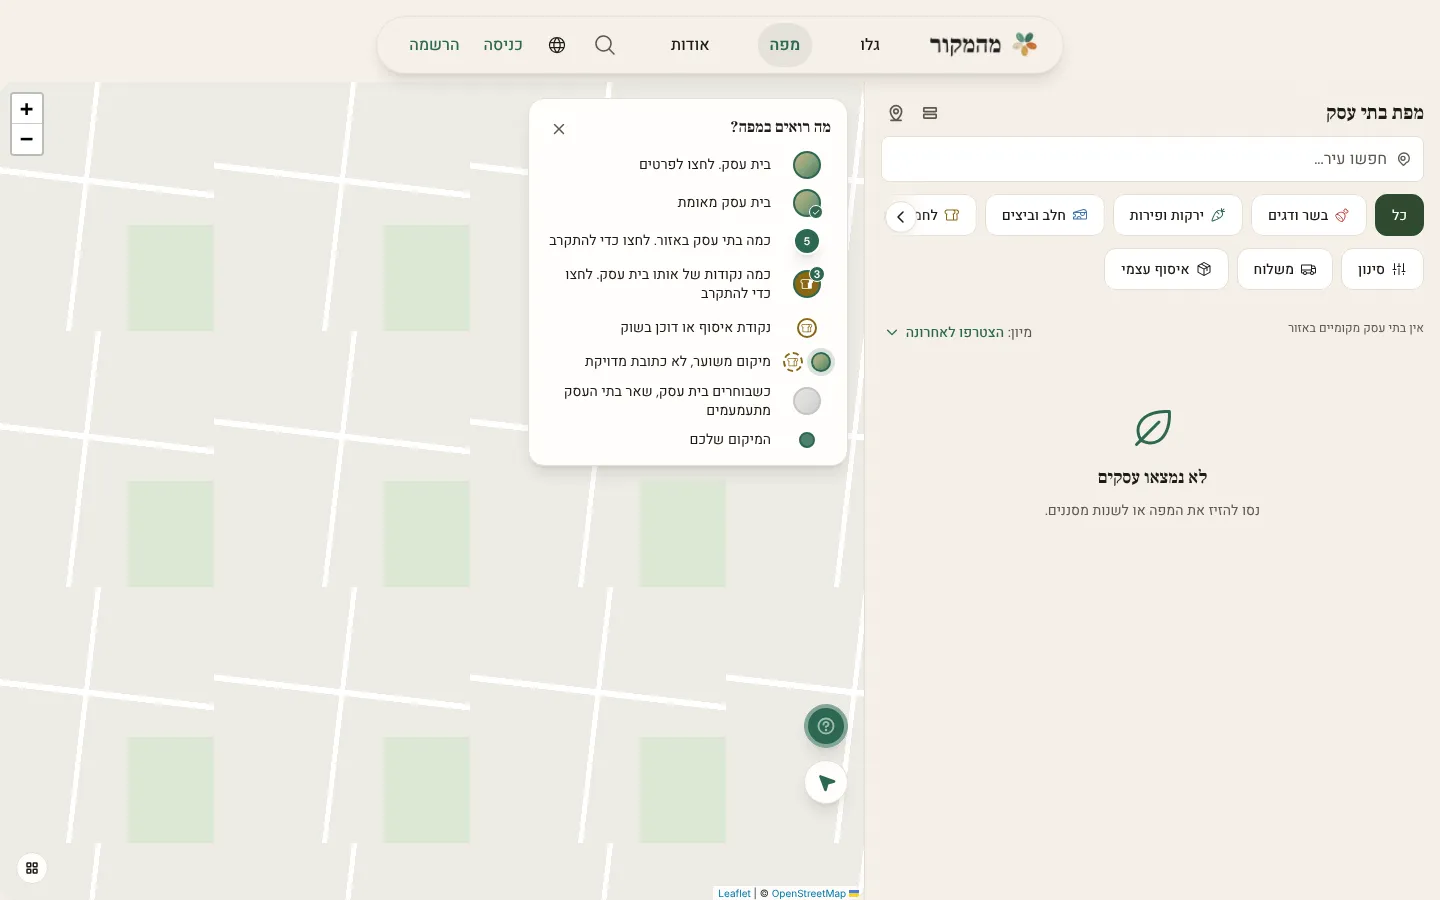
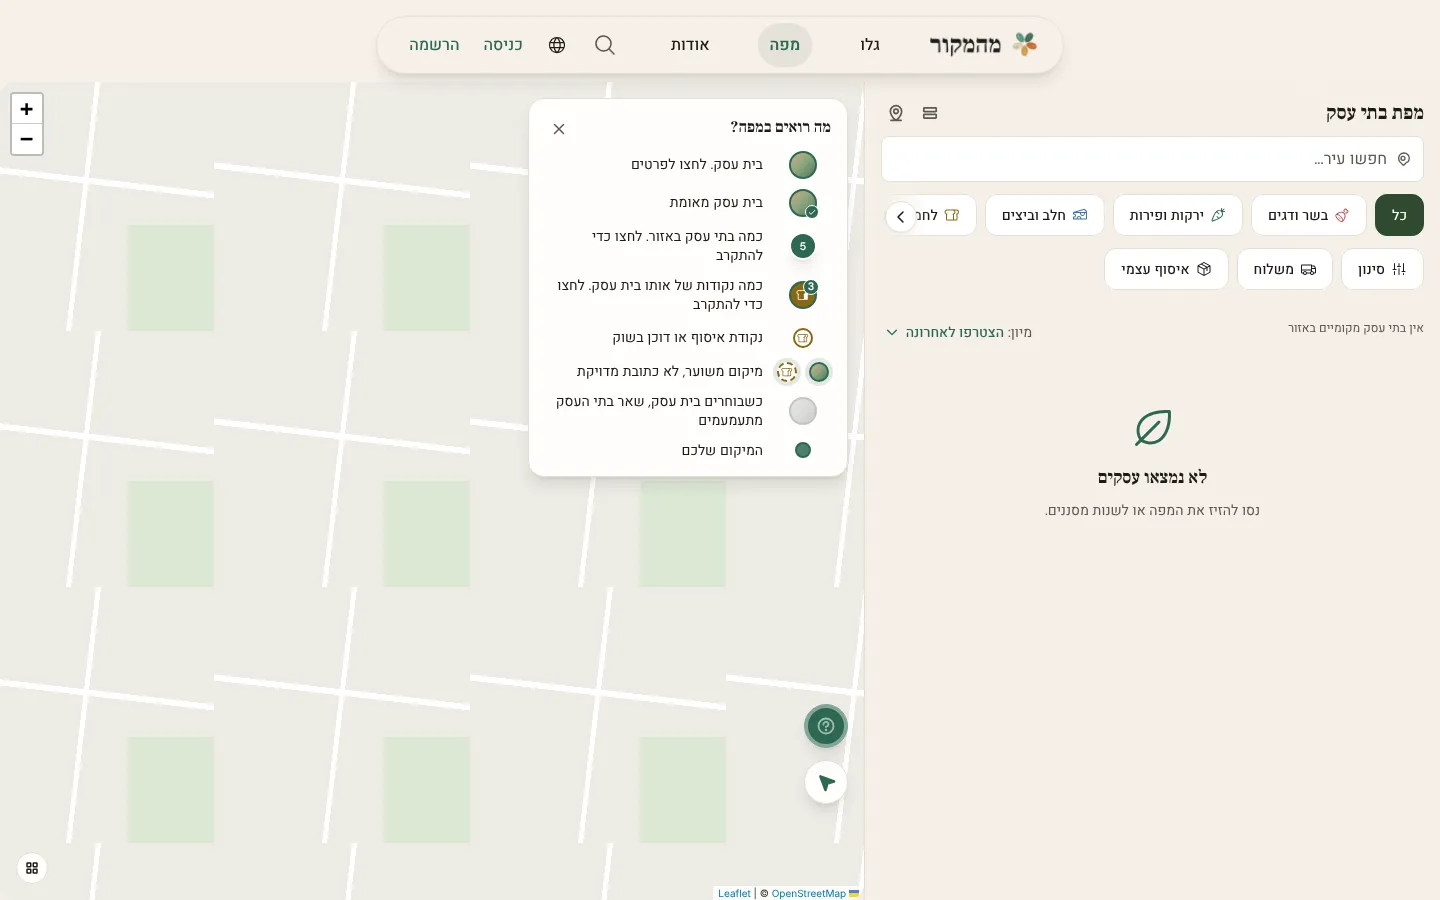
fix(map): key samples match the map's own values; the guard ties call sites to rows (MEH-3119)
Reviewer findings on the first commit:
- raw-color guard was red (+5): the dimmed sample reuses the photo sample,
  the badge and glyph take surface tokens.
- halo alpha was 0.18, the map draws 0.14; the dashed pickup sample now
  carries the halo too, as the map does.
- the guard's last loop was entailed by the static rows. Each marker call
  site now names the key rows that explain it, the set must equal the rows
  on screen, comments are not counted, constructor forms are, and the
  counter has its own self-test against the real MapComponent.jsx.

Builder-Model: claude-fable-5-2

Claude-Session: https://claude.ai/code/session_01X8DSqUUSdJsjb3axh3nMuf

Changed region(s): [[0.375, 0.1556, 0.5938, 0.5289]]

diff --git a/frontend/__tests__/MapKey.test.jsx b/frontend/__tests__/MapKey.test.jsx
@@ -19,6 +19,19 @@ import { styleForProducer } from "@/lib/category-registry";
 import { readFileSync } from "node:fs";
 import { resolve } from "node:path";
 
+// Leaflet factories that put something visible on the map, counted per kind in
+// CODE only (comments stripped), constructor forms folded into the factory name.
+function markerCallSites(source) {
+  const code = source.replace(/\/\*[\s\S]*?\*\//g, "").replace(/^\s*\/\/.*$/gm, "").replace(/([^:"'`])\/\/.*$/gm, "$1");
+  const re = /\b(?:new\s+)?L\.(divIcon|icon|marker|circleMarker|circle|polygon|polyline|rectangle|imageOverlay|svgOverlay|videoOverlay|popup|tooltip)\(/gi;
+  const out = {};
+  for (const m of code.matchAll(re)) {
+    const name = `L.${m[1][0].toLowerCase()}${m[1].slice(1)}`;
+    out[name] = (out[name] ?? 0) + 1;
+  }
+  return out;
+}
+
 const hexToRgb = (hex) => {
   const n = parseInt(hex.slice(1), 16);
   return `rgb(${(n >> 16) & 255}, ${(n >> 8) & 255}, ${n & 255})`;
@@ -76,25 +89,41 @@ describe("map key (MEH-2424)", () => {
   });
 
   // MEH-3119: the key went stale once the map grew marks it did not explain.
-  // Every mark the map draws is created at one of these call sites in
-  // MapComponent.jsx; a new one turns this red until it gets a key row (or a
-  // reason here) and the list below is updated.
+  // Every mark the map draws is built at a Leaflet factory call in
+  // MapComponent.jsx. Each call site is listed here WITH the key rows that
+  // explain it; a new call site (or a removed one) turns the count red, and
+  // the entry it then needs must name rows the panel really renders. It is a
+  // tripwire, not a proof: it cannot tell that a row's drawing is right.
   it("every marker the map creates has a key row", () => {
     const src = readFileSync(resolve(__dirname, "../components/MapComponent.jsx"), "utf8");
-    const sites = src.match(/L\.(divIcon|circleMarker|circle|icon|marker|polygon|polyline|rectangle)\(/g) ?? [];
+    const sites = markerCallSites(src);
     const KNOWN = {
-      "L.divIcon(": ["photo/verified (createCategoryMarker)", "pickup (createSecondaryMarker)", "same_business (createSingleBusinessClusterIcon)", "cluster (iconCreateFunction)"],
-      "L.circleMarker(": ["my_location"],
-      "L.marker(": ["every pin — wears one of the divIcons above"],
+      "L.divIcon": [
+        ["photo", "verified", "approximate", "dimmed"], // createCategoryMarker
+        ["pickup", "approximate", "dimmed"], // createSecondaryMarker
+        ["same_business"], // createSingleBusinessClusterIcon
+        ["cluster"], // iconCreateFunction
+      ],
+      "L.circleMarker": [["my_location"]],
+      "L.marker": [[]], // every pin; it wears one of the divIcons above
     };
-    const counts = sites.reduce((acc, k) => ({ ...acc, [k]: (acc[k] ?? 0) + 1 }), {});
-    expect(counts).toEqual(Object.fromEntries(Object.entries(KNOWN).map(([k, v]) => [k, v.length])));
+    expect(sites).toEqual(Object.fromEntries(Object.entries(KNOWN).map(([k, v]) => [k, v.length])));
     renderKey();
     fireEvent.click(toggle());
-    const texts = screen.getAllByTestId("map-key-row").map((r) => r.textContent);
-    for (const k of ["photo", "verified", "pickup", "same_business", "cluster", "my_location", "dimmed", "approximate"]) {
-      expect(texts, `key row for ${k}`).toContain(K[k]);
-    }
+    const rendered = screen.getAllByTestId("map-key-row").map((r) => r.textContent);
+    const explained = [...new Set(Object.values(KNOWN).flat(2))];
+    // both directions: every listed row is on screen, and no row on screen is unowned
+    expect(explained.map((k) => K[k]).sort()).toEqual([...rendered].sort());
+  });
+
+  // The tripwire's own control (testing.md: a probe ships with a self-test):
+  // it must see a new factory call, a `new L.Marker`, and must NOT count a
+  // call that only appears in a comment.
+  it("markerCallSites: counts code, ignores comments, sees constructor forms", () => {
+    expect(markerCallSites("const a = L.divIcon({});\n// L.divIcon( in a comment\n/* L.circle( */")).toEqual({ "L.divIcon": 1 });
+    expect(markerCallSites("new L.Marker(x); L.imageOverlay(u, b); L.popup()")).toEqual({ "L.marker": 1, "L.imageOverlay": 1, "L.popup": 1 });
+    const real = readFileSync(resolve(__dirname, "../components/MapComponent.jsx"), "utf8");
+    expect(markerCallSites(real + "\nL.divIcon({ html: '' });")["L.divIcon"]).toBe(markerCallSites(real)["L.divIcon"] + 1);
   });
 
   it.each([

diff --git a/frontend/app/[locale]/map/components/MapKey.jsx b/frontend/app/[locale]/map/components/MapKey.jsx
@@ -89,15 +89,20 @@ function SamplePickup() {
 // MEH-3119: an approximate point shows two ways on the map — a halo around a
 // business pin, a dashed ring on a pickup pin (createSecondaryMarker
 // borderStyle) — so the sample shows both side by side.
+const APPROX_HALO = { boxShadow: "0 0 0 4px rgba(46,104,83,0.14)" };
+
 function SampleApproximate() {
   const { color, icon: Glyph } = PICKUP_SAMPLE;
   return (
-    <span className="flex items-center gap-2" aria-hidden="true">
+    <span className="flex items-center gap-3" aria-hidden="true">
       <span
-        className={`relative shrink-0 w-5 h-5 rounded-full border-2 border-primary bg-gradient-to-br from-[#c9b48a] via-[#8aa37b] to-[#4f7a5f]`}
-        style={{ boxShadow: "0 0 0 4px rgba(46,104,83,0.18)" }}
+        className="relative shrink-0 w-5 h-5 rounded-full border-2 border-primary bg-gradient-to-br from-[#c9b48a] via-[#8aa37b] to-[#4f7a5f]"
+        style={APPROX_HALO}
       />
-      <span className="w-5 h-5 rounded-full bg-surface border-2 border-dashed flex items-center justify-center" style={{ borderColor: color }}>
+      <span
+        className="w-5 h-5 rounded-full bg-surface border-2 border-dashed flex items-center justify-center"
+        style={{ ...APPROX_HALO, borderColor: color }}
+      >
         <Glyph size={12} color={color} />
       </span>
     </span>
@@ -106,13 +111,14 @@ function SampleApproximate() {
 
 // MEH-3119: several points of ONE business that sit together cluster into its
 // category glyph with a count badge (MapComponent.jsx createSingleBusinessClusterIcon).
+// Scaled like every sample here: the map's 36px pin / 18px badge at 28px / 16px.
 function SampleSameBusiness() {
   const { color, icon: Glyph } = PICKUP_SAMPLE;
   return (
-    <span className={`${PIN} flex items-center justify-center`} style={{ background: color }} aria-hidden="true">
-      <Glyph size={14} color="#fff" weight="fill" />
+    <span className={`${PIN} flex items-center justify-center text-surface`} style={{ background: color }} aria-hidden="true">
+      <Glyph size={14} weight="fill" />
       {/* eslint-disable-next-line no-restricted-syntax -- rtl-ok: mirrors the cluster's physical top-right badge */}
-      <span className="absolute -top-1.5 -right-1.5 min-w-[16px] h-4 px-0.5 rounded-full bg-primary border border-white text-white text-2xs font-semibold numeric flex items-center justify-center">
+      <span className="absolute -top-1 -right-1 min-w-4 h-4 px-0.5 rounded-full bg-primary border border-surface text-surface text-2xs leading-none font-semibold numeric flex items-center justify-center">
         3
       </span>
     </span>
@@ -123,11 +129,9 @@ function SampleSameBusiness() {
 // filter globals.css puts on `.mehamakor-map-focused` markers.
 function SampleDimmed() {
   return (
-    <span
-      className={`${PIN} bg-gradient-to-br from-[#c9b48a] via-[#8aa37b] to-[#4f7a5f]`}
-      style={{ filter: "grayscale(1) opacity(0.35)" }}
-      aria-hidden="true"
-    />
+    <span className="flex" style={{ filter: "grayscale(1) opacity(0.35)" }}>
+      <SamplePhoto />
+    </span>
   );
 }
 
@@ -210,7 +214,7 @@ export default function MapKey({ buttonClassName = "", buttonStyle, panelClassNa
             {rows.map(([Sample, label]) => (
               <li key={label} className="flex items-center gap-3">
                 {/* MEH-3119: a fixed-width slot so a two-mark sample keeps every label aligned */}
-                <span className="shrink-0 w-12 flex items-center justify-center">
+                <span className="shrink-0 w-14 flex items-center justify-center">
                   <Sample />
                 </span>
                 <span data-testid="map-key-row" className="text-sm text-text leading-snug">
